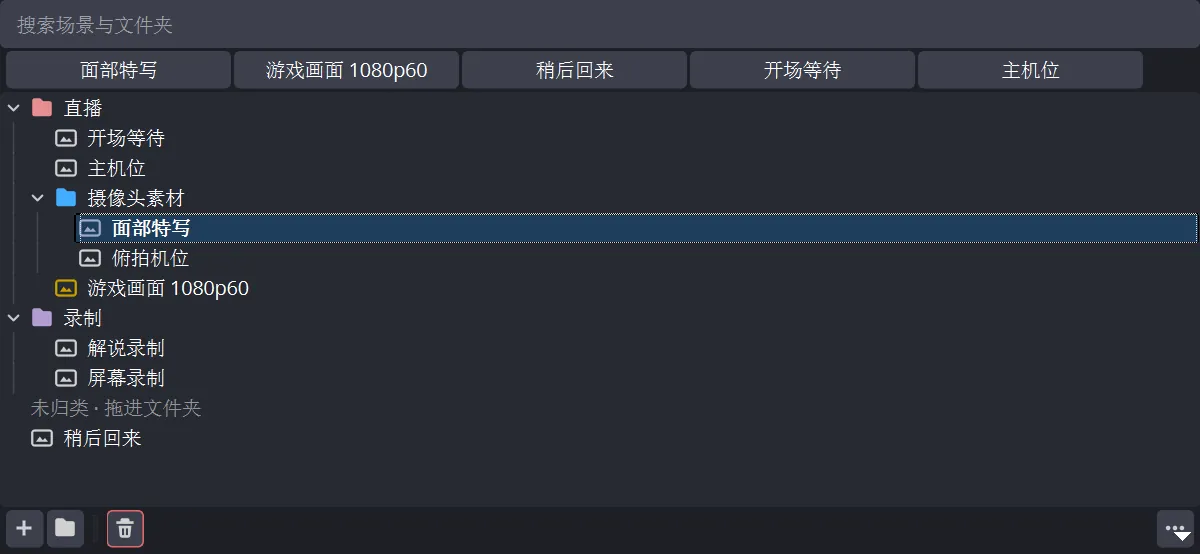
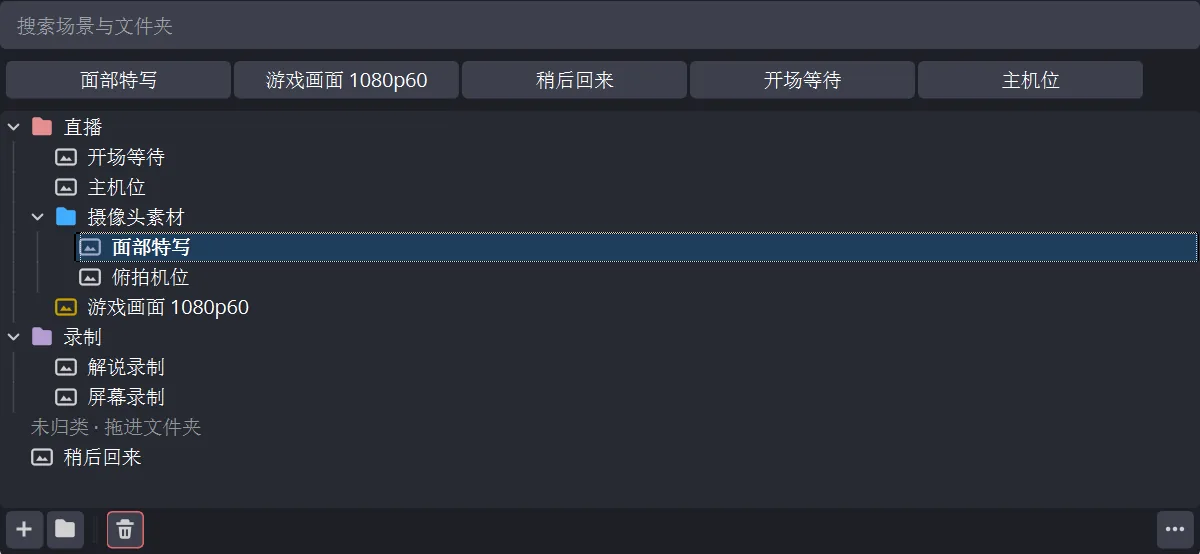
docs: record the release-day hotkey press and date the comparison evidence

diff --git a/tools/hero-collection.py b/tools/hero-collection.py
@@ -1,0 +1,144 @@
+"""Rebuild the demo collections behind the README first-screen shots.
+
+    python tools/hero-collection.py [输出目录]
+
+默认写进 .deps 里的便携夹具（`.deps/obs33-portable/config/obs-studio/basic/scenes`），
+拍图脚本随后用 `--portable --collection Hero|HeroZh` 启动 OBS。这两套集合不在仓库里：
+上一版首屏图的演示集合没留下任何配方，界面一改就只能凭截图重搭，所以这份生成器进仓库。
+树本身写在集合自己的 `modules.scene_anchor` 里、按场景 uuid 引用，与插件存的格式一致，
+启动后不用再手工整理。
+
+两处刻意的安排：文件夹名不能同时当场景名用（会多出不该有的行）；`unfiled` 里的场景
+**不进树**，「未归类 · 拖进文件夹」那条表头才会出现——表头只在有未归类尾巴时画。
+"""
+import io
+import json
+import os
+import sys
+
+MAIN_CANVAS = "6c69626f-6273-4c00-9d88-c5136d61696e"
+OUT_DIR = sys.argv[1] if len(sys.argv) > 1 else ".deps/obs33-portable/config/obs-studio/basic/scenes"
+
+# the eight presets from src/tree_dock.cpp; the icons are lightened at draw time
+RED, BLUE, YELLOW, PURPLE = "#d13438", "#0078d4", "#c19c00", "#8764b8"
+
+TREES = {
+    "Hero": {
+        "current": "Face Cam",
+        "tree": [
+            {"name": "Live", "t": "folder", "color": RED, "expanded": True, "children": [
+                {"name": "Starting Soon"},
+                {"name": "Main Camera"},
+                {"name": "Camera Sources", "t": "folder", "color": BLUE, "expanded": True, "children": [
+                    {"name": "Face Cam"},
+                    {"name": "Overhead Cam"},
+                ]},
+                {"name": "Gameplay 1080p60", "color": YELLOW},
+            ]},
+            {"name": "Recording", "t": "folder", "color": PURPLE, "expanded": True, "children": [
+                {"name": "Commentary"},
+                {"name": "Screen Capture"},
+            ]},
+        ],
+        # deliberately not in the tree: this is what makes the plugin draw the unfiled header
+        "unfiled": ["BRB"],
+        "mru": ["Face Cam", "Starting Soon", "Main Camera", "Overhead Cam"],
+    },
+    "HeroZh": {
+        "current": "面部特写",
+        "tree": [
+            {"name": "直播", "t": "folder", "color": RED, "expanded": True, "children": [
+                {"name": "开场等待"},
+                {"name": "主机位"},
+                {"name": "摄像头素材", "t": "folder", "color": BLUE, "expanded": True, "children": [
+                    {"name": "面部特写"},
+                    {"name": "俯拍机位"},
+                ]},
+                {"name": "游戏画面 1080p60", "color": YELLOW},
+            ]},
+            {"name": "录制", "t": "folder", "color": PURPLE, "expanded": True, "children": [
+                {"name": "解说录制"},
+                {"name": "屏幕录制"},
+            ]},
+        ],
+        "unfiled": ["稍后回来"],
+        "mru": ["面部特写", "游戏画面 1080p60", "稍后回来", "开场等待", "主机位"],
+    },
+}
+
+
+def walk(nodes, parent_folder, uuids, out_nodes):
+    for node in nodes:
+        name = node["name"]
+        if node.get("t") == "folder":
+            folder = {"name": name, "t": "folder", "expanded": bool(node.get("expanded")), "children": []}
+            if node.get("color"):
+                folder["color"] = node["color"]
+            walk(node.get("children", []), folder, uuids, out_nodes)
+            (parent_folder["children"] if parent_folder else out_nodes).append(folder)
+        else:
+            uuid = uuids[name]
+            scene = {"name": name, "t": "scene", "uuid": uuid}
+            if node.get("color"):
+                scene["color"] = node["color"]
+            (parent_folder["children"] if parent_folder else out_nodes).append(scene)
+
+
+def scene_entry(name, uuid):
+    return {
+        "prev_ver": 553648129, "name": name, "uuid": uuid, "id": "scene", "versioned_id": "scene",
+        "settings": {"id_counter": 1, "custom_size": False, "items": []},
+        "mixers": 0, "sync": 0, "flags": 0, "volume": 1.0, "balance": 0.5, "enabled": True,
+        "muted": False, "push-to-mute": False, "push-to-mute-delay": 0, "push-to-talk": False,
+        "push-to-talk-delay": 0,
+        "hotkeys": {"OBSBasic.SelectScene": []},
+        "deinterlace_mode": 0, "deinterlace_field_order": 0, "monitoring_type": 0,
+        "monitoring_enabled": False, "canvas_uuid": MAIN_CANVAS, "private_settings": {},
+    }
+
+
+def collect_names(nodes, acc):
+    """Only scenes become OBS sources; folder names are tree metadata, not scenes."""
+    for node in nodes:
+        if node.get("t") == "folder":
+            collect_names(node.get("children", []), acc)
+        else:
+            acc.append(node["name"])
+    return acc
+
+
+def build(coll_name, spec):
+    names = collect_names(spec["tree"], [])
+    for extra in spec.get("unfiled", []):
+        names.append(extra)
+    uuids = {}
+    for i, name in enumerate(names):
+        n = 0x5a00 + i * 0x11
+        uuids[name] = "%08x-0000-4000-8000-%012x" % (n, n * 0x100000 + i)
+    tree = []
+    walk(spec["tree"], None, uuids, tree)
+    blob = {"canvases": {MAIN_CANVAS: {"tree": tree}},
+            "mru": [uuids[n] for n in spec["mru"]], "version": 1}
+    doc = {
+        "name": coll_name, "version": 2,
+        "resolution": {"x": 1920, "y": 1080}, "migration_resolution": {"x": 1920, "y": 1080},
+        "sources": [scene_entry(n, uuids[n]) for n in names],
+        "groups": [],
+        "scene_order": [{"name": n} for n in names],
+        "current_scene": spec["current"], "current_program_scene": spec["current"],
+        "canvases": [], "current_transition": "Fade", "transition_duration": 300,
+        "transitions": [], "quick_transitions": [], "saved_projectors": [],
+        "preview_locked": False, "scaling_enabled": False, "scaling_level": -7,
+        "scaling_off_x": 0.0, "scaling_off_y": 0.0, "virtual-camera": {"type2": 3},
+        "modules": {"scene_anchor": json.dumps(blob, ensure_ascii=False, separators=(",", ":"))},
+    }
+    path = os.path.join(OUT_DIR, coll_name + ".json")
+    with io.open(path, "w", encoding="utf-8") as fh:
+        json.dump(doc, fh, ensure_ascii=False, indent=1)
+    print("wrote %s (%d scenes, %d mru)" % (path, len(names), len(spec["mru"])))
+
+
+if not os.path.isdir(OUT_DIR):
+    sys.exit("harness collection dir missing: " + OUT_DIR)
+for coll, spec in TREES.items():
+    build(coll, spec)

diff --git a/README.zh.md b/README.zh.md
@@ -93,7 +93,7 @@ C:\ProgramData\obs-studio\plugins\scene-anchor\data\locale\zh-CN.ini
 
 **灰色地带**：转场覆盖存在 `"transition"` / `"transition_duration"` 这两个 private-settings 键下，多视图可见性存在 `"show_in_multiview"` 下。这些键可以通过公开 API 读写，但键名本身是 OBS 前端的约定而非有文档的 API 契约——未来某个 OBS 版本可能不打招呼就改掉。
 
-- **只有 Windows 经过真机验证。**[`docs/pre-release-checklist.md`](docs/pre-release-checklist.md) 的人工检查已在 Windows 上对着 OBS 33.0.1 跑过第 1–8、10–13、15–20 项；第 9 项（副画布）没有对应插件，不适用。第 14 项（首次使用 dock 的可见性）已于 2026-10-31 在 OBS 33.0.0 的全新配置上补测通过。Windows 1.0.x → 2.0.0 升级已在 ProgramData 和便携版两种布局上验过；自定义色对话框也已实际点选通过。第 18 项（搜索热键）同日改用走系统输入队列的注入按键在 OBS 33.0.0 上重跑，抓到一个真缺陷并在本次构建里修掉：dock 处于浮动状态时，热键没有把键盘焦点送进搜索框。物理按键仍建议发版当天再按一次。macOS 与 Linux 目标能在 CI 上编译打包，插件本身也没有任何平台相关代码，但至今没有人在这两个系统上把 OBS 带着它启动过。请把它们当作**未验证**而不是**有问题**，遇到什么也欢迎报给我。
+- **只有 Windows 经过真机验证。**[`docs/pre-release-checklist.md`](docs/pre-release-checklist.md) 的人工检查已在 Windows 上对着 OBS 33.0.1 跑过第 1–8、10–13、15–20 项；第 9 项（副画布）没有对应插件，不适用。第 14 项（首次使用 dock 的可见性）已于 2026-10-31 在 OBS 33.0.0 的全新配置上补测通过。Windows 1.0.x → 2.0.0 升级已在 ProgramData 和便携版两种布局上验过；自定义色对话框也已实际点选通过。第 18 项（搜索热键）同日改用走系统输入队列的注入按键在 OBS 33.0.0 上重跑，抓到一个真缺陷并在本次构建里修掉：dock 处于浮动状态时，热键没有把键盘焦点送进搜索框。发版前又用真键盘上的物理按键按了一次，焦点确实进了搜索框。macOS 与 Linux 目标能在 CI 上编译打包，插件本身也没有任何平台相关代码，但至今没有人在这两个系统上把 OBS 带着它启动过。请把它们当作**未验证**而不是**有问题**，遇到什么也欢迎报给我。
 
 ## 报告问题
 

diff --git a/README.md b/README.md
@@ -94,7 +94,7 @@ Restart OBS after any of these.
 
 **Gray areas**: transition override is stored under the `"transition"` / `"transition_duration"` private-settings keys, and multiview visibility under `"show_in_multiview"`. These keys are accessible through public API calls, but the keys themselves are an OBS frontend convention rather than a documented API contract — a future OBS version could change them without notice.
 
-- **Only Windows has been exercised on real hardware.** The manual checklist in [`docs/pre-release-checklist.md`](docs/pre-release-checklist.md) was run on Windows against OBS 33.0.1 for this release: items 1–8, 10–13 and 15–20. Item 9 (secondary canvas) is not applicable without such a plugin. Item 14 (first-run dock visibility) was re-checked in a fresh config on OBS 33.0.0. The Windows 1.0.x → 2.0.0 upgrade and the manual custom-colour dialog were checked on real hardware. Item 18 (the search hotkey) was re-run on OBS 33.0.0 with keys injected through the system input queue, which caught a real defect — the hotkey did not move keyboard focus into the search box while the dock was floating — fixed in this build; pressing the key physically is still worth a second on release day. The macOS and Linux targets compile and package in CI, and the plugin uses no platform-specific code, but nobody has yet launched OBS with it on either. Treat those two as untested rather than broken, and please report what you find.
+- **Only Windows has been exercised on real hardware.** The manual checklist in [`docs/pre-release-checklist.md`](docs/pre-release-checklist.md) was run on Windows against OBS 33.0.1 for this release: items 1–8, 10–13 and 15–20. Item 9 (secondary canvas) is not applicable without such a plugin. Item 14 (first-run dock visibility) was re-checked in a fresh config on OBS 33.0.0. The Windows 1.0.x → 2.0.0 upgrade and the manual custom-colour dialog were checked on real hardware. Item 18 (the search hotkey) was re-run on OBS 33.0.0 with keys injected through the system input queue, which caught a real defect — the hotkey did not move keyboard focus into the search box while the dock was floating — fixed in this build, and a press of the real key on release day confirmed the focus lands in the search box. The macOS and Linux targets compile and package in CI, and the plugin uses no platform-specific code, but nobody has yet launched OBS with it on either. Treat those two as untested rather than broken, and please report what you find.
 
 ## Reporting bugs
 

diff --git a/docs/pre-release-checklist.md b/docs/pre-release-checklist.md
@@ -15,7 +15,7 @@
 > 第 9 项没有副画布插件，不适用。**2026-10-31 发布前状态：第 1–8、10–13、15–20 项已通过；
 > 第 14 项已于 2026-10-31 在 33.0.0 全新配置上补测通过；第 15 项的真实自定义色对话框点选也已补测通过；
 > 第 18 项已于 2026-10-31 用带扫描码的注入按键在 33.0.0 上重跑，抓到一个热键拿不到键盘焦点的真缺陷并修掉，
-> Studio Mode 分支同批通过，只剩发版当天用物理键再按一次；第 21 项已于 2026-10-31 在
+> Studio Mode 分支同批通过，发版前又用真键盘上的物理按键再按一次并通过；第 21 项已于 2026-10-31 在
 > ProgramData 与便携版两种布局上通过。**
 >
 > **2026-10-31 实时路径优化后补充（Windows 真机 OBS 33.0.x）**：MRU 按 uuid 取名与 chip 点击、
@@ -433,7 +433,9 @@ dock->setFloating(true);    // 强制浮动
 > Studio Mode 分支单独跑过：先把预览和节目放到不同场景（否则两条分支的可观测结果一模一样），
 > 回车只改预览（Unfiled1 → Unfiled2），1200ms 淡入再把预览带上节目。
 > 这条走的是窗口管理器的激活语义，无头单测造不出"另一个顶层窗口持前台"的场景，故由本项的真机自动化兜住。
-> **发版当天仍请用物理键再按一次**：注入键与真键在输入法/辅助功能层可能有差异。
+> **2026-10-31 晚又用真键盘上的物理按键按了绑定的全局热键**（注入键与真键在输入法/辅助功能层可能有差异，
+> 这一步不能由上面的自动化代替）：dock 激活、搜索框拿到键盘焦点、直接打字替换掉旧关键词。装的是本机
+> ProgramData 里那份修好的 DLL（同一提交的本机构建，不是 CI 产出的那个二进制）。
 
 ### 19. 空状态引导
 
